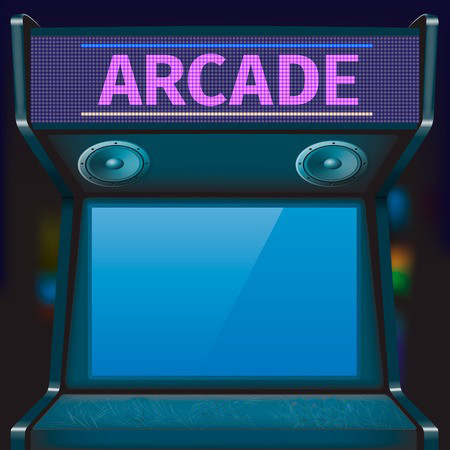
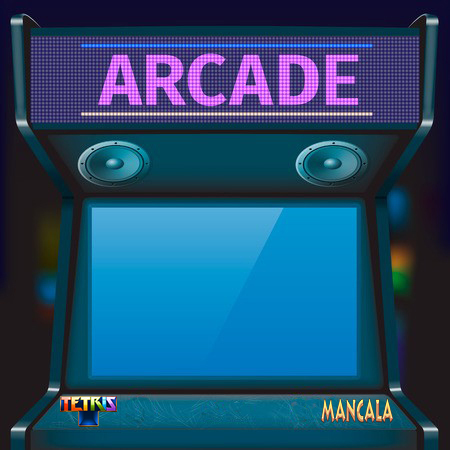
added arcade style buttons and changed the backgorund skin

Changed region(s): [[0.1244, 0.8711, 0.28, 0.9644], [0.7156, 0.8711, 0.8711, 0.9644]]

diff --git a/src/main/java/cs1302/arcade/style.css b/src/main/java/cs1302/arcade/style.css
@@ -5,10 +5,50 @@
     -fx-background-position: center center;
 }
 
-#tetris_bu {
+#tetris_but {
     -fx-background-image: url("file:resources/arcade/red_button_up.png");
-    -fx-background-size: 90px 90px;
+    -fx-background-size: 40px 40px;
+    -fx-background-radius: 20;
+    -fx-min-width: 40;
+    -fx-min-height: 40;
+    -fx-max-width: 40;
+    -fx-max-height: 40;
     -fx-background-repeat: no-repeat;
     -fx-background-position: center;
-    -border-radius: 50%;
+}
+
+#tetris_but:pressed {
+    -fx-background-image: url("file:resources/arcade/red_button_down.png");
+    -fx-background-size: 40px 40px;
+    -fx-background-radius: 20;
+    -fx-min-width: 40;
+    -fx-min-height: 40;
+    -fx-max-width: 40;
+    -fx-max-height: 40;
+    -fx-background-repeat: no-repeat;
+    -fx-background-position: center;
+}
+
+#man_but {
+    -fx-background-image: url("file:resources/arcade/yellow_button_up.png");
+    -fx-background-size: 40px 40px;
+    -fx-background-radius: 20;
+    -fx-min-width: 40;
+    -fx-min-height: 40;
+    -fx-max-width: 40;
+    -fx-max-height: 40;
+    -fx-background-repeat: no-repeat;
+    -fx-background-position: center;
+}
+
+#man_but:pressed {
+    -fx-background-image: url("file:resources/arcade/yellow_button_down.png");
+    -fx-background-size: 40px 40px;
+    -fx-background-radius: 20;
+    -fx-min-width: 40;
+    -fx-min-height: 40;
+    -fx-max-width: 40;
+    -fx-max-height: 40;
+    -fx-background-repeat: no-repeat;
+    -fx-background-position: center;
 }

diff --git a/src/main/java/cs1302/arcade/ArcadeApp.java b/src/main/java/cs1302/arcade/ArcadeApp.java
@@ -27,62 +27,13 @@ public class ArcadeApp extends Application {
 
     Group group = new Group();           // main container
     HBox buttons = new HBox();
-    Random rng = new Random();           // random number generator
     Rectangle r = new Rectangle(20, 20); // some rectangle
-    Button tetris = new Button("Tetris");
-    Button mancala = new Button("Mancala");
-
-    // /**
-    //  * Return a mouse event handler that moves to the rectangle to a random
-    //  * position any time a mouse event is generated by the associated node.
-    //  * @return the mouse event handler
-    //  */
-    // private EventHandler<? super MouseEvent> createMouseHandler() {
-    //     return event -> {
-    //         System.out.println(event);
-    //         r.setX(rng.nextDouble() * (640 - r.getWidth()));
-    //         r.setY(rng.nextDouble() * (480 - r.getHeight()));
-    //     };
-    // } // createMouseHandler
-
-    // /**
-    //  * Return a key event handler that moves to the rectangle to the left
-    //  * or the right depending on what key event is generated by the associated
-    //  * node.
-    //  * @return the key event handler
-    //  */
-    // private EventHandler<? super KeyEvent> createKeyHandler() {
-    //     return event -> {
-    //         System.out.println(event);
-    //         switch (event.getCode()) {
-    //         case LEFT:  // KeyCode.LEFT
-    //             r.setX(r.getX() - 10.0);
-    //             break;
-    //         case RIGHT: // KeyCode.RIGHT
-    //             r.setX(r.getX() + 10.0);
-    //             break;
-    //         default:
-    //             // do nothing
-    //         } // switch
-    //         // TODO bounds checking
-    //     };
-    // } // createKeyHandler
+    Button tetris = new Button();
+    Button mancala = new Button();
 
     /** {@inheritDoc} */
     @Override
     public void start(Stage stage) {
-
-        /* You are allowed to rewrite this start method, add other methods,
-         * files, classes, etc., as needed. This currently contains some
-         * simple sample code for mouse and keyboard interactions with a node
-         * (rectangle) in a group.
-         */
-
-        // r.setX(50);                                // 50px in the x direction (right)
-        // r.setY(50);                                // 50ps in the y direction (down)
-        // group.getChildren().add(r);                // add to main container
-        // r.setOnMouseClicked(createMouseHandler()); // clicks on the rectangle move it randomly
-        // group.setOnKeyPressed(createKeyHandler()); // left-right key presses move the rectangle
         Stage tetrisStage = new Stage();
         tetrisStage.initModality(Modality.APPLICATION_MODAL);
         Tetris game = new Tetris();
@@ -109,12 +60,13 @@ public class ArcadeApp extends Application {
 
         sp.setId("pane");
 
-        tetris.setTranslateX(-165.0);
+        tetris.setTranslateX(-150.0);
         tetris.setTranslateY(500.0);
 
         tetris.setId("tetris_but");
+        mancala.setId("man_but");
 
-        mancala.setTranslateX(60.0);
+        mancala.setTranslateX(20.0);
         mancala.setTranslateY(500.0);
 
         Scene scene = new Scene(sp, 600, 600);
